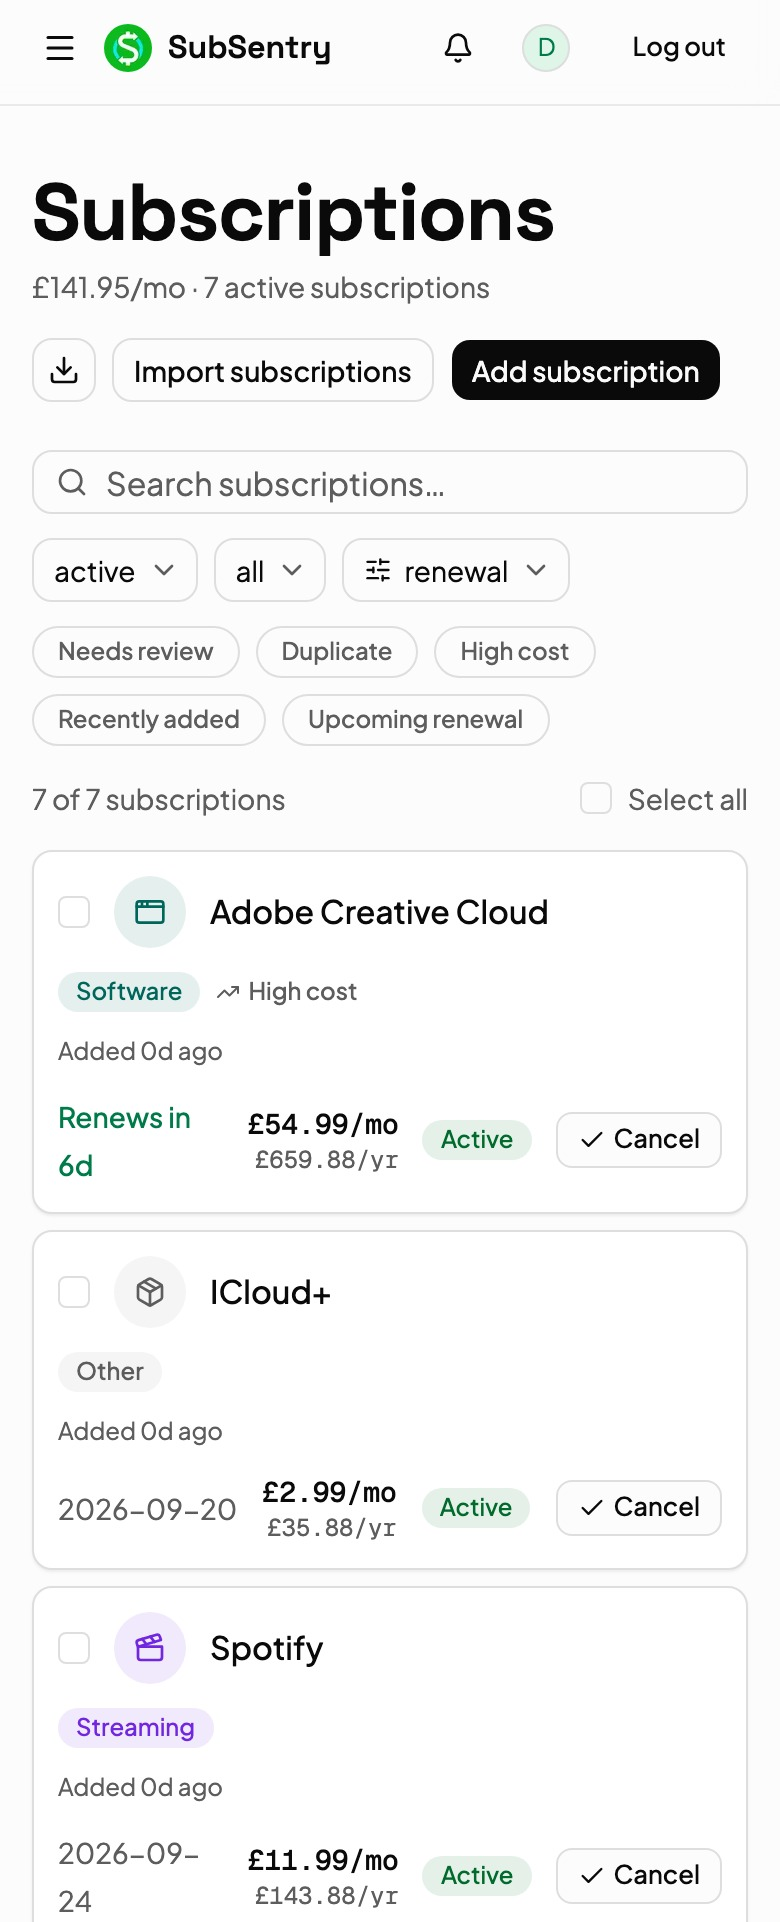
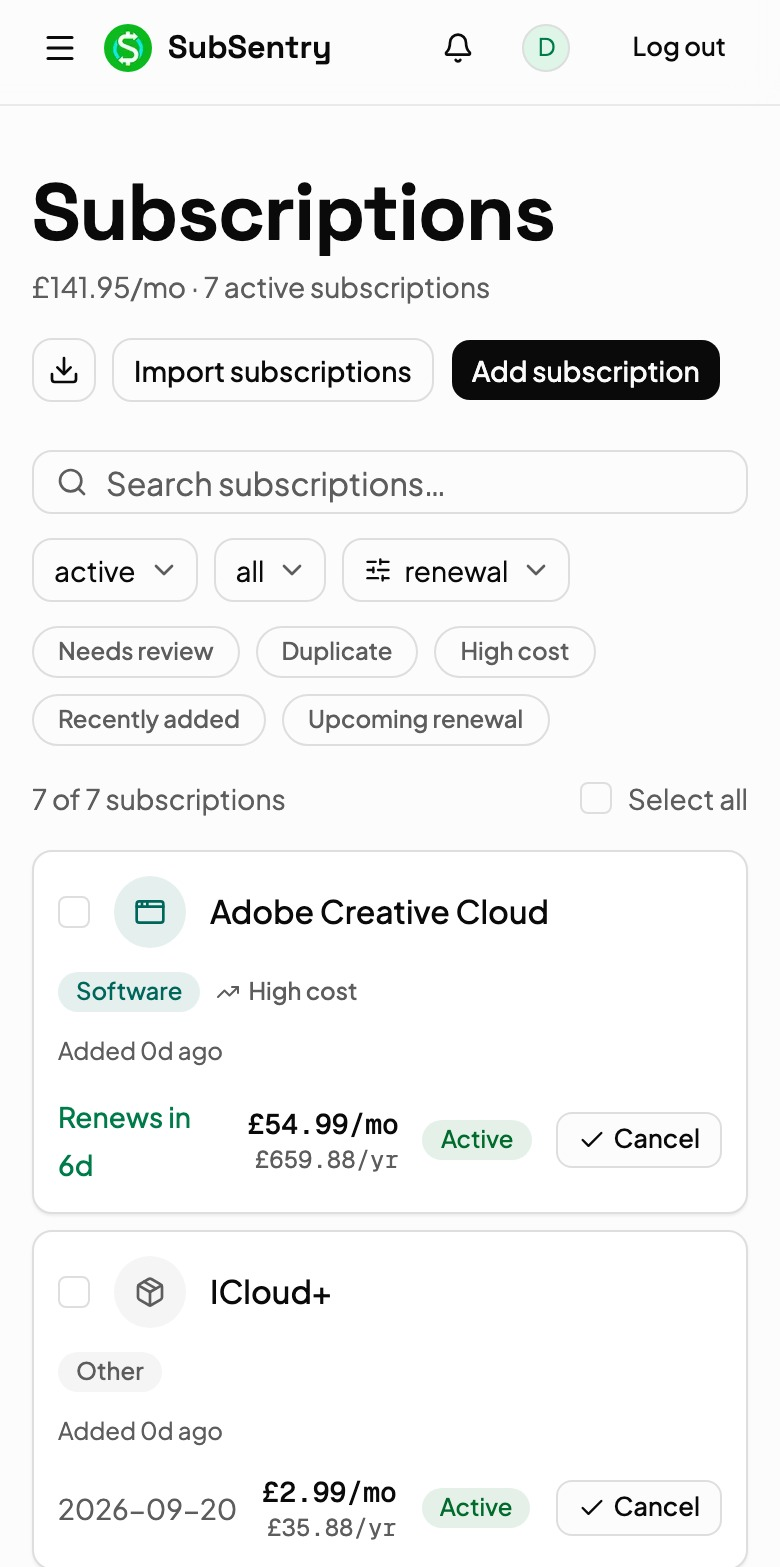
Restore bigger frame size, trim mobile preview to 2 subscriptions
Frame back to 280/300/320px (the size before the last shrink). Re-cropped
app-mobile-preview.jpg to show only Adobe Creative Cloud + iCloud+
(2 rows) instead of 3 — shorter image, less elongated frame, while still
showing the app listing more than one subscription.

Claude-Session: https://claude.ai/code/session_018PjwpYgPaYfj5qYZjwL31r

diff --git a/src/components/phone-frame.tsx b/src/components/phone-frame.tsx
@@ -6,29 +6,29 @@ import Image from "next/image";
 // source note in the README), not a fabricated mockup.
 export function PhoneFrame() {
   return (
-    <div className="relative mx-auto w-[220px] sm:w-[235px] lg:mx-0 lg:ml-auto lg:w-[250px]">
-      <div className="relative rounded-[2rem] bg-neutral-900 p-2.5 shadow-2xl shadow-black/30">
+    <div className="relative mx-auto w-[280px] sm:w-[300px] lg:mx-0 lg:ml-auto lg:w-[320px]">
+      <div className="relative rounded-[2.4rem] bg-neutral-900 p-3 shadow-2xl shadow-black/30">
         {/* Side buttons */}
-        <span aria-hidden="true" className="absolute -left-[3px] top-16 h-6 w-[3px] rounded-l-sm bg-neutral-800" />
-        <span aria-hidden="true" className="absolute -left-[3px] top-24 h-10 w-[3px] rounded-l-sm bg-neutral-800" />
-        <span aria-hidden="true" className="absolute -right-[3px] top-20 h-12 w-[3px] rounded-r-sm bg-neutral-800" />
+        <span aria-hidden="true" className="absolute -left-[3px] top-20 h-7 w-[3px] rounded-l-sm bg-neutral-800" />
+        <span aria-hidden="true" className="absolute -left-[3px] top-28 h-12 w-[3px] rounded-l-sm bg-neutral-800" />
+        <span aria-hidden="true" className="absolute -right-[3px] top-24 h-14 w-[3px] rounded-r-sm bg-neutral-800" />
 
-        <div className="relative overflow-hidden rounded-[1.5rem] bg-black">
+        <div className="relative overflow-hidden rounded-[1.9rem] bg-black">
           <Image
             src="/app-mobile-preview.jpg"
-            alt="The SubSentry subscriptions list on a phone — Adobe Creative Cloud flagged as high cost, plus iCloud+ and Spotify"
+            alt="The SubSentry subscriptions list on a phone — Adobe Creative Cloud flagged as high cost, plus iCloud+"
             width={780}
-            height={1922}
+            height={1567}
             priority
             className="w-full"
           />
           {/* Notch */}
           <div aria-hidden="true" className="absolute inset-x-0 top-0 flex justify-center">
-            <div className="h-4 w-16 rounded-b-xl bg-black" />
+            <div className="h-5 w-20 rounded-b-xl bg-black" />
           </div>
           {/* Home indicator */}
-          <div aria-hidden="true" className="absolute inset-x-0 bottom-1 flex justify-center">
-            <div className="h-[3px] w-16 rounded-full bg-white/40" />
+          <div aria-hidden="true" className="absolute inset-x-0 bottom-1.5 flex justify-center">
+            <div className="h-1 w-20 rounded-full bg-white/40" />
           </div>
         </div>
       </div>
